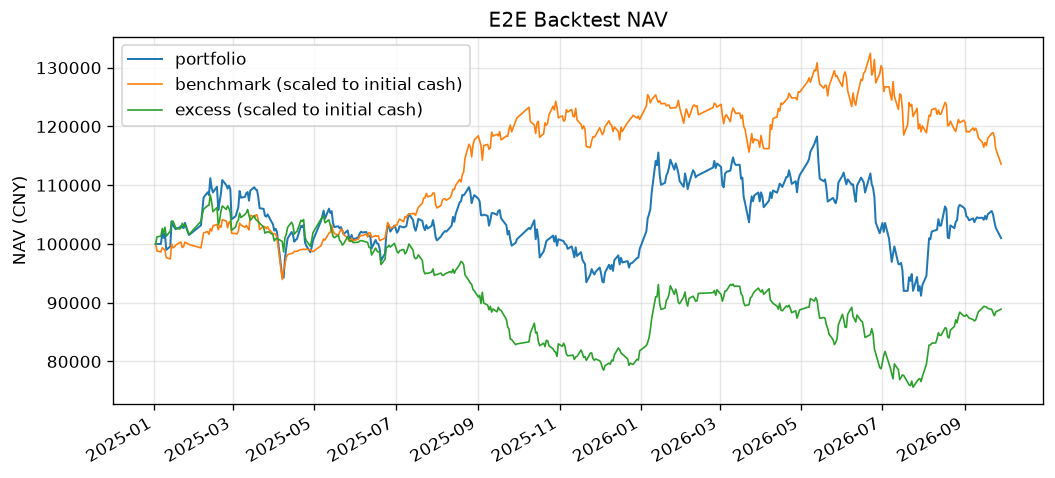
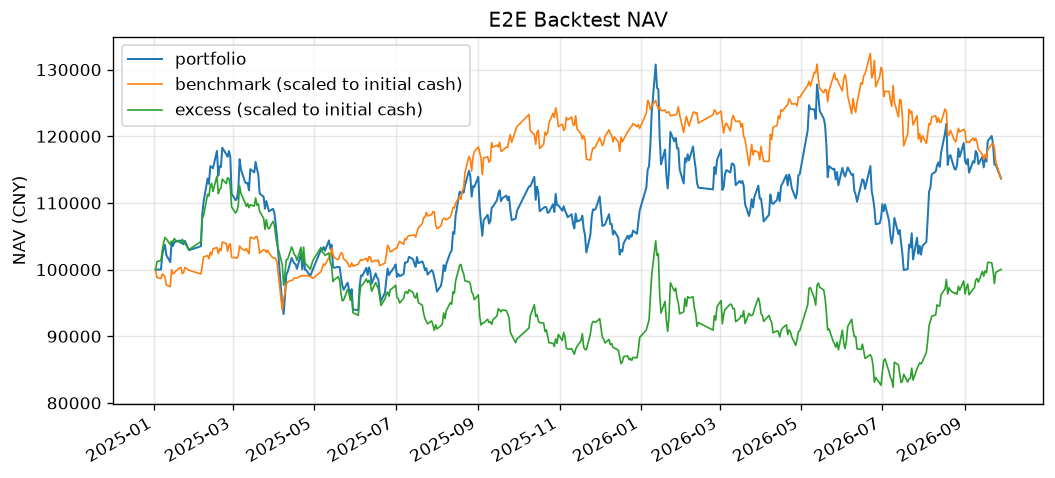
旗舰策略按 #120 修复后口径重训重跑：标签持有期改 5 对齐周频调仓，优化器按真实成本标定（kappa 0.004、max_turnover 0.3），样本外超额转正（算术 +2.54%/年）；README 数字与诚实声明同步更新

diff --git a/scripts/reproduce_flagship.py b/scripts/reproduce_flagship.py
@@ -66,6 +66,10 @@ OUT_DIR: str = "runs/flagship"
 TIME_LIMIT: int = 1800
 PRESETS: str = "medium_quality"
 
+#: 标签持有期：周频调仓持有约 5 个交易日，标签口径与持有期对齐（issue #120 后的
+#: 干净口径；horizon=1 的次日收益标签与周度持仓行为脱节）。
+HORIZON: int = 5
+
 #: AutoGluon 落盘的预测器文件，存在即视为模型已训练。
 PREDICTOR_FILE: str = "predictor.pkl"
 
@@ -137,6 +141,7 @@ def build_plan(
                     "--universe", universe,
                     "--time-limit", TIME_LIMIT,
                     "--presets", PRESETS,
+                    "--horizon", HORIZON,
                 ),
             )
         )
@@ -154,6 +159,7 @@ def build_plan(
                 "--rebalance-freq", config["rebalance_freq"],
                 "--initial-cash", INITIAL_CASH,
                 "--model-dir", MODEL_DIR,
+                "--horizon", HORIZON,
                 "--start", BACKTEST_START,
                 "--end", BACKTEST_END,
                 "--out-dir", OUT_DIR,

diff --git a/tests/test_flagship_universe.py b/tests/test_flagship_universe.py
@@ -477,12 +477,12 @@ def test_flagship_strategy_config_loads_and_builds_optimizer() -> None:
     assert config.benchmark == "000300"
     assert config.top_k == 15
     assert config.rebalance_freq == "W"
-    assert config.optimize == {"w_max": 0.1, "max_turnover": 0.6, "kappa": 0.002}
+    assert config.optimize == {"w_max": 0.1, "max_turnover": 0.3, "kappa": 0.004}
 
     optimizer = build_stock_optimizer(config)
     assert optimizer.w_max == pytest.approx(0.1)
-    assert optimizer.max_turnover == pytest.approx(0.6)
-    assert optimizer.kappa == pytest.approx(0.002)
+    assert optimizer.max_turnover == pytest.approx(0.3)
+    assert optimizer.kappa == pytest.approx(0.004)
 
 
 def test_flagship_strategy_config_matches_backtest_cli() -> None:

diff --git a/README.md b/README.md
@@ -122,16 +122,16 @@ flowchart TB
 
 | 指标 | 组合 | 基准 |
 | --- | ---: | ---: |
-| 总收益 | 1.01% | 13.62% |
-| 年化收益 | 0.60% | 7.92% |
-| 最大回撤 | -22.91% | — |
-| 夏普（日频 √252） | 0.14 | — |
-| 超额年化 / 跟踪误差 / IR | -5.92% / 16.79% / -0.35 | — |
-| 实际 beta（对基准日收益回归） | 0.90 | — |
-| 总换手（日换手之和，422 个交易日） | 48.80 | — |
-| 交易成本合计 / 占初始资金 | 11694.82 元 / 11.69% | — |
+| 总收益 | 13.66% | 13.62% |
+| 年化收益 | 7.95% | 7.92% |
+| 最大回撤 | -23.58% | — |
+| 夏普（日频 √252） | 0.41 | — |
+| 超额年化（算术） / 跟踪误差 / IR | 2.54% / 21.90% / 0.12 | — |
+| 实际 beta（对基准日收益回归） | 1.04 | — |
+| 总换手（日换手之和，422 个交易日） | 38.71 | — |
+| 交易成本合计 / 占初始资金 | 10015.93 元 / 10.02% | — |
 
-特征集 26 个因子 = 13 个种子因子 + 13 个 Agent 内循环产出（门控 RankIC ≥ 0.02、ICIR ≥ 0.3、与库内相关性 ≤ 0.7；模型特征重要性前三名全部是内循环因子）。内循环因子清单与血统链：
+特征集 26 个因子 = 13 个种子因子 + 13 个 Agent 内循环产出（门控 RankIC ≥ 0.02、ICIR ≥ 0.3、与库内相关性 ≤ 0.7）。内循环因子清单与血统链：
 
 | 因子 | 血统 | RankIC | ICIR | MaxCorr | 机制 |
 | --- | --- | ---: | ---: | ---: | --- |
@@ -149,7 +149,7 @@ flowchart TB
 | return_skew_20_neg | mutation | 0.0240 | 0.307 | 0.659 | 收益路径偏度取负 |
 | volume_path_structure_neg | crossover | 0.0218 | 0.348 | 0.385 | 量能路径结构取负 |
 
-**诚实声明**：这段样本外区间组合跑输基准（超额 -5.92%/年）。交易成本吞掉初始资金的 11.69%——10 万本金下最低佣金 5 元/笔相对 6000–9000 元/笔的整手成交额占比显著，是小本金周频调仓的结构性成本。内循环因子的挖掘与门控评估使用了全样本行情，因子入选本身含全样本信息，上述「样本外」是相对训练窗口而言，不构成收益预期。完整配置、约束、风险暴露与复现命令见 [wiki 旗舰策略细节页](https://github.com/001eander/ASTER/wiki/Flagship-Strategy)。
+**诚实声明**：几何口径下组合与基准基本打平（总收益 13.66% vs 13.62%），表中超额年化 +2.54% 是日频算术口径，两者的差来自 21.9% 跟踪误差的方差拖累；IR 0.12 属于噪声级，这段区间没有可辨识的主动收益。交易成本吞掉初始资金的 10.02%——10 万本金下最低佣金 5 元/笔相对数千元/笔的整手成交额占比显著，是小本金周频调仓的结构性成本。2026-10 修复了 universe 过滤顺序 bug（[#120](https://github.com/001eander/ASTER/issues/120)，训练标签跨出池洞拉伸），本表为修复后重训（标签持有期 5 日，对齐周频调仓）的结果；内循环因子的挖掘与门控评估使用了全样本行情，因子入选本身含全样本信息，上述「样本外」是相对训练窗口而言，不构成收益预期。完整配置、约束、风险暴露、迭代记录与复现命令见 [wiki 旗舰策略细节页](https://github.com/001eander/ASTER/wiki/Flagship-Strategy)。
 
 ## 快速开始
 
